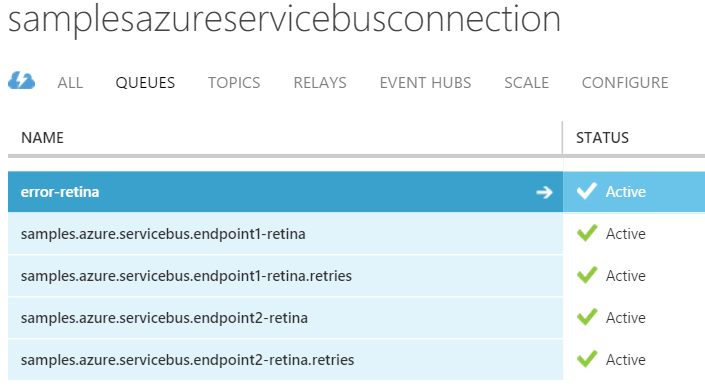
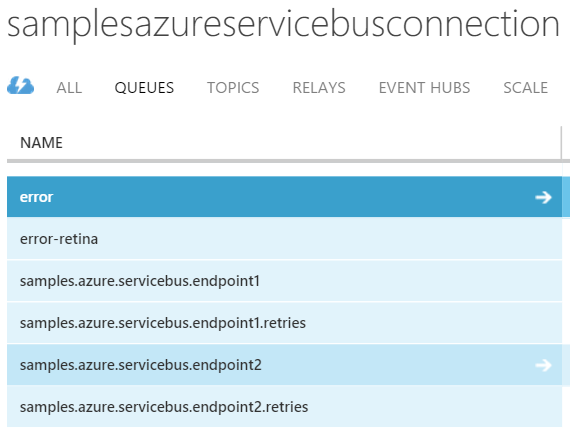
add UseSingleBrokerQueue usage

diff --git a/samples/azure/azure-service-bus/Version_5/Endpoint1/Program.cs b/samples/azure/azure-service-bus/Version_5/Endpoint1/Program.cs
@@ -10,6 +10,7 @@ class Program
 
         BusConfiguration busConfiguration = new BusConfiguration();
         busConfiguration.EndpointName("Samples.Azure.ServiceBus.Endpoint1");
+        busConfiguration.ScaleOut().UseSingleBrokerQueue();
         busConfiguration.UseTransport<AzureServiceBusTransport>()
             .ConnectionString(Environment.GetEnvironmentVariable("SamplesAzureServiceBusConnection"));
 
@@ -39,8 +40,7 @@ class Program
                 {
                     Property = "Hello from Endpoint1"
                 };
-                string destination = "Samples.Azure.ServiceBus.Endpoint2-" + Environment.MachineName;
-                bus.Send(destination, message);
+                bus.Send("Samples.Azure.ServiceBus.Endpoint2", message);
                 Console.WriteLine("Message1 sent");
             }
         }

diff --git a/samples/azure/azure-service-bus/Version_5/Endpoint2/Program.cs b/samples/azure/azure-service-bus/Version_5/Endpoint2/Program.cs
@@ -10,6 +10,7 @@ class Program
         busConfiguration.EndpointName("Samples.Azure.ServiceBus.Endpoint2");
         busConfiguration.UseSerialization<JsonSerializer>();
         busConfiguration.EnableInstallers();
+        busConfiguration.ScaleOut().UseSingleBrokerQueue();
         busConfiguration.UseTransport<AzureServiceBusTransport>()
             .ConnectionString(Environment.GetEnvironmentVariable("SamplesAzureServiceBusConnection"));
         busConfiguration.UsePersistence<InMemoryPersistence>();

diff --git a/samples/azure/azure-service-bus/sample.md b/samples/azure/azure-service-bus/sample.md
@@ -31,7 +31,10 @@ The `Server` endpoint is configured to use the Azure Storage persistence in two 
 
 <!-- import Config -->
 
-Note the use of the `SamplesAzureServiceBusConnection` environment variable mention above.  
+Some things to note:
+
+ * The use of the `SamplesAzureServiceBusConnection` environment variable mention above.
+ * The use of `UseSingleBrokerQueue` prevents the Azure transport individualizing queue names by appending the machine name.  
 
 
 ## The Data in Azure Storage
